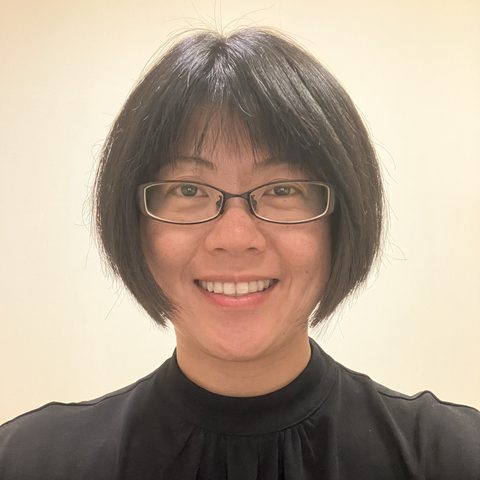
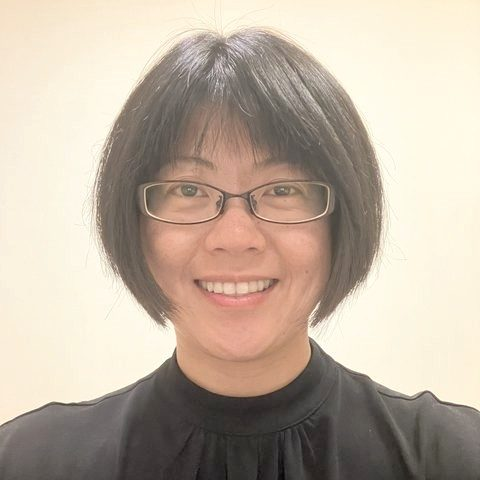
Brighten portrait photo
Claude-Session: https://claude.ai/code/session_019fyKhzdkAAKHRCJibzaPcV

Changed region(s): [[0.0, 0.0625, 1.0, 0.9688], [0.6875, 0.8438, 0.7188, 0.875]]

diff --git a/index.html b/index.html
@@ -89,7 +89,7 @@ a:focus-visible,button:focus-visible,input:focus-visible,select:focus-visible,te
 
 <section id="apropos" style="margin: 0 clamp(14px, 4vw, 28px) 48px; background: #F7EFDC; border-radius: 14px; padding: clamp(14px, 4vw, 28px)">
 <div style="display: flex; flex-wrap: wrap; gap: 28px; align-items: center">
-<img src="assets/portrait.jpg" width="480" height="480" alt="Portrait de Naichi SHIH" loading="lazy" style="display: block; flex: 0 0 140px; width: 140px; height: 140px; border-radius: 50%; object-fit: cover; background: #EDE0C4">
+<img src="assets/portrait.jpg?v=2" width="480" height="480" alt="Portrait de Naichi SHIH" loading="lazy" style="display: block; flex: 0 0 140px; width: 140px; height: 140px; border-radius: 50%; object-fit: cover; background: #EDE0C4">
 <div style="flex: 1 1 420px; min-width: 0">
 <h2 style="margin: 0 0 10px; font-size: 22px; font-weight: 600; color: #1F4A3D">Bonjour, je suis Naichi !</h2>
 <p style="margin: 0 0 10px; font-size: 15px; color: #3E4A4C">Originaire de Taïwan, je suis enseignante de chinois et d'anglais, passionnée par les langues, les cultures et les échanges humains.</p>
